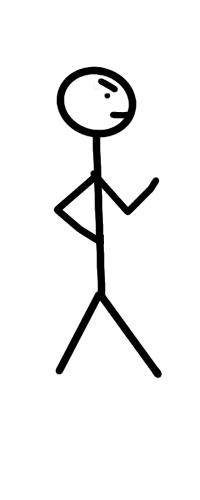
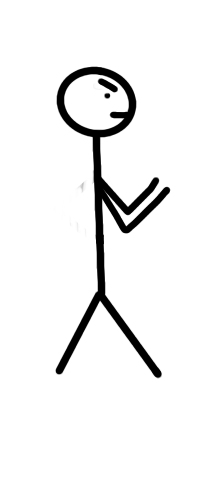
added changes to photos and worked on the picture swap function

Changed region(s): [[0.51, 0.36, 0.87, 0.48], [0.27, 0.33, 0.48, 0.51]]

diff --git a/js/script.js b/js/script.js
@@ -6,65 +6,83 @@ let isLeftSide = true; // variable to determine which side will call API/fill te
   //make an array
   const leftPictures = new Array();
 leftPictures[0] = new Image();
-leftPictures[0].src = './photos/personLeft/PersonAdviceLeft5.png';
+leftPictures[0].src = './photos/personLeft/personInsultLeft4.png';
 leftPictures[1] = new Image();
-leftPictures[1].src = './photos/personLeft/PersonAdviceLeft2.png';
+leftPictures[1].src = './photos/personLeft/personInsultLeft3.png';
 leftPictures[2] = new Image();
-leftPictures[2].src = './photos/personLeft/PersonAdviceLeft1.png';
+leftPictures[2].src = './photos/personLeft/personInsultLeft2.png';
 leftPictures[3] = new Image();
 leftPictures[3].src = './photos/personLeft/personInsultLeft1.png';
 leftPictures[4] = new Image();
-leftPictures[4].src = './photos/personLeft/personInsultLeft2.png';
+leftPictures[4].src = './photos/personLeft/personAILeft.png';
 leftPictures[5] = new Image();
-leftPictures[5].src = './photos/personLeft/personInsultLeft3.png';
+leftPictures[5].src = './photos/personLeft/personAdviceLeft4.png';
 leftPictures[6] = new Image();
-leftPictures[6].src = './photos/personLeft/personInsultLeft4.png';
+leftPictures[6].src = './photos/personLeft/personAdviceLeft3.png';
 leftPictures[7] = new Image();
-leftPictures[7].src = './photos/personLeft/personInsultLeft5.png';
+leftPictures[7].src = './photos/personLeft/personAdviceLeft2.png';
+leftPictures[8] = new Image();
+leftPictures[8].src = './photos/personLeft/personAdviceLeft1.png';
 
 const rightPictures = new Array();
 rightPictures[0] = new Image();
-rightPictures[0].src = './photos/personRight/personAdviceRight5.png';
+rightPictures[0].src = './photos/personRight/personInsultright4.png';
 rightPictures[1] = new Image();
-rightPictures[1].src = './photos/personRight/personAdviceRight2.png';
+rightPictures[1].src = './photos/personRight/personInsultRight3.png';
 rightPictures[2] = new Image();
-rightPictures[2].src = './photos/personRight/personAdviceRight1.png';
+rightPictures[2].src = './photos/personRight/personInsultRight2.png';
 rightPictures[3] = new Image();
-rightPictures[3].src = './photos/personRight/personInsultRight1.png'; //neutral face
+rightPictures[3].src = './photos/personRight/personInsultRight1.png';
 rightPictures[4] = new Image();
-rightPictures[4].src = './photos/personRight/personInsultRight2.png';
+rightPictures[4].src = './photos/personRight/personAIRight.png';
 rightPictures[5] = new Image();
-rightPictures[5].src = './photos/personRight/personInsultRight3.png';
+rightPictures[5].src = './photos/personRight/personAdviceRight4.png';
 rightPictures[6] = new Image();
-rightPictures[6].src = './photos/personRight/personInsultRight4.png';
+rightPictures[6].src = './photos/personRight/personAdviceRight3.png';
 rightPictures[7] = new Image();
-rightPictures[7].src = './photos/personRight/personInsultRight5.png';
+rightPictures[7].src = './photos/personRight/personAdviceRight2.png';
+rightPictures[8] = new Image();
+rightPictures[8].src = './photos/personRight/personAdviceRight1.png';
+
+//two global variables
+let leftCounter = 4;
+let rightCounter = 4; 
+
+// console.log(leftCounter);
+// console.log(rightCounter);
+
+
+
 //array test js code
   // console.log(rightPictures);
   // document.getElementById("leftPersonImage").src=leftPictures[2].src;
-let currentMoodLeft = leftPictures[4];
-let currentMoodRight = rightPictures[4];
-insultApp.countUpLeft = () => {
-  // function to increase the current leftPerson displayed image in array by 1
-  currentMoodLeft  // add +1 to the array number somehow
-}
+// let currentMoodLeft = leftPictures[4];
+// let currentMoodRight = rightPictures[4];
 
-insultApp.countDownLeft = () => {
-  // function to decrease the current leftPerson displayed image in array by 1
-  currentMoodLeft  // add -1 to the array number somehow
-}
 
-insultApp.countUpRight = () => {
+// insultApp.countUp = () => {
+//   //increase the counter +1 when an advise button is pressed
+//  if (isLeftSide) {
+//       currentMoodLeft = 
+//       console.log(isLeftSide);
+//       isLeftSide = !isLeftSide;
+//     } else {
+//       insultApp.getInsultRight();
+//       insultApp.countUpLeft();
+//       console.log(isLeftSide);
+//       isLeftSide = !isLeftSide;
+//     }
+// }
+
+insultApp.countDown = () => {
   // function to increase the current rightPerson displayed image in array by 1
 }
 
-insultApp.countDownRight = () => {
-  // function to decrease the current rightPerson displayed image in array by 1
-}
+
   //have the images cycle through the array (loop?)
-for (let i = 0; i < data.length; i++) {
-  console.log(data[i]);
-}
+// for (let i = 0; i < data.length; i++) {
+//   console.log(data[i]);
+// }
   //players start at a value of 0: 
     // using an insult is a value of -1, when you hit -5 that's when the end of game is triggered
     //using advice is a value of +1, when you hit +5 that's when the end of game is triggered
@@ -88,7 +106,7 @@ fetch('https://proxy-ugwolsldnq-uc.a.run.app/https://evilinsult.com/generate_ins
   // change right person image to pure anger
   // NOTE - add the following to the other getInsult/getAdvice methods
   .then(function (changeImageRight) {
-    document.getElementById('rightPersonImage').src='./photos/personRight/PersonInsultRight5.png'
+    // document.getElementById('rightPersonImage').src='./photos/personRight/personInsultRight5.png'
   })
 };
 
@@ -135,31 +153,44 @@ insultApp.getAdviceRight = () => {
     insultRightText.innerHTML = advice.advice;
   });
 };
+//FOR COUNTERS
+  //player 1
+    //insult button is clicked, the right side counter goes down by 1
+    //then retrieves right side photo
+
+  //player 2
+    //advice button is clicked, the left side counter goes up by 1
+    //then retrives left side photo
+
 
   // add event listeners
+  //insult button conditions
     document.getElementById("insultButton").addEventListener("click", e => {
     if (isLeftSide) {
       insultApp.getInsultLeft();
-      insultApp.countUpRight();
+      rightCounter--;
+      leftPictures[leftCounter];
       console.log(isLeftSide);
       isLeftSide = !isLeftSide;
     } else {
       insultApp.getInsultRight();
-      insultApp.countUpLeft();
+      leftCounter--;
       console.log(isLeftSide);
       isLeftSide = !isLeftSide;
     }
-  });
 
+
+  });
+  //advice button conditions
   document.getElementById("adviceButton").addEventListener("click", e => {
     if (isLeftSide) {
       insultApp.getAdviceLeft();
-      insultApp.countDownRight();
+      rightCounter++;
       console.log(isLeftSide);
       isLeftSide = !isLeftSide;
     } else {
       insultApp.getAdviceRight();
-      insultApp.countDownLeft();
+      leftCounter++;
       console.log(isLeftSide);
       isLeftSide = !isLeftSide;
     }
@@ -167,12 +198,14 @@ insultApp.getAdviceRight = () => {
 
 // init function to kick off the code
 insultApp.init = () => {
-  // alert('Naughty language may lie ahead.')
-// insultApp.getInsultLeft();
-// insultApp.getInsultRight();
-// insultApp.getAdviceLeft();
-// insultApp.getAdviceRight();
-  // insultApp.gameStart();
+  let leftCounter = 4;
+  let rightCounter = 4; 
+  console.log(leftCounter);
+  console.log(rightCounter);
+  // document.getElementById('#leftPersonImage').src = leftPictures[leftCounter];
+  document.getElementById('#rightPersonImage').src = rightPictures[rightCounter];
+
+  
 }
 
 // call the init function

diff --git a/index.html b/index.html
@@ -21,7 +21,7 @@
       <div class="leftPerson">
         <div class="leftPersonImage">
           <!--left person image goes here-->
-          <img id="leftPersonImage" src="./photos/personLeft/personAdviceLeft1.png">
+          <img id="leftPersonImage">
         </div>
       </div>
       <!--middle speech bubble stuff-->
@@ -46,7 +46,7 @@
       <div class="rightPerson">
         <div class="rightPersonImage">
           <!--right person image goes here-->
-          <img id="rightPersonImage" src="./photos/personRight/PersonAdviceRight1.png">
+          <img id="rightPersonImage">
         </div>
       </div>
     </div>
